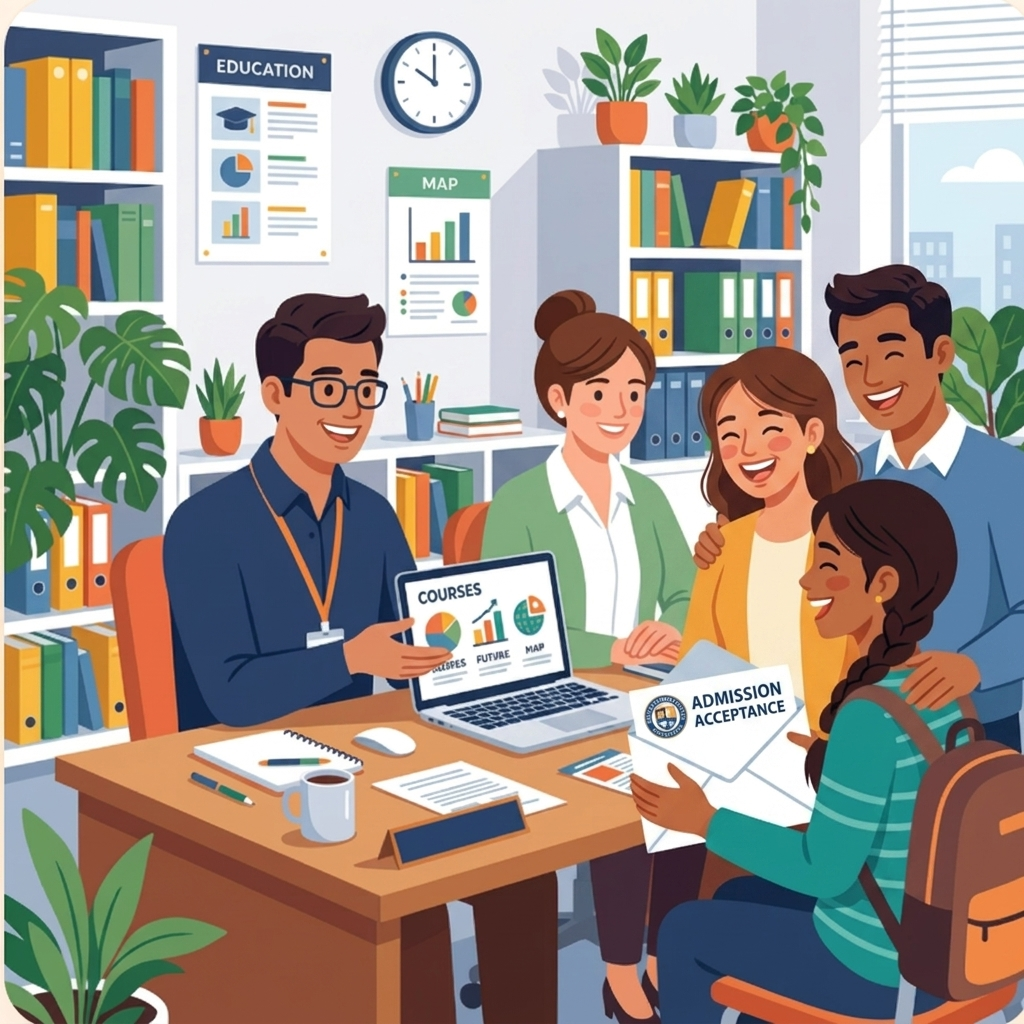
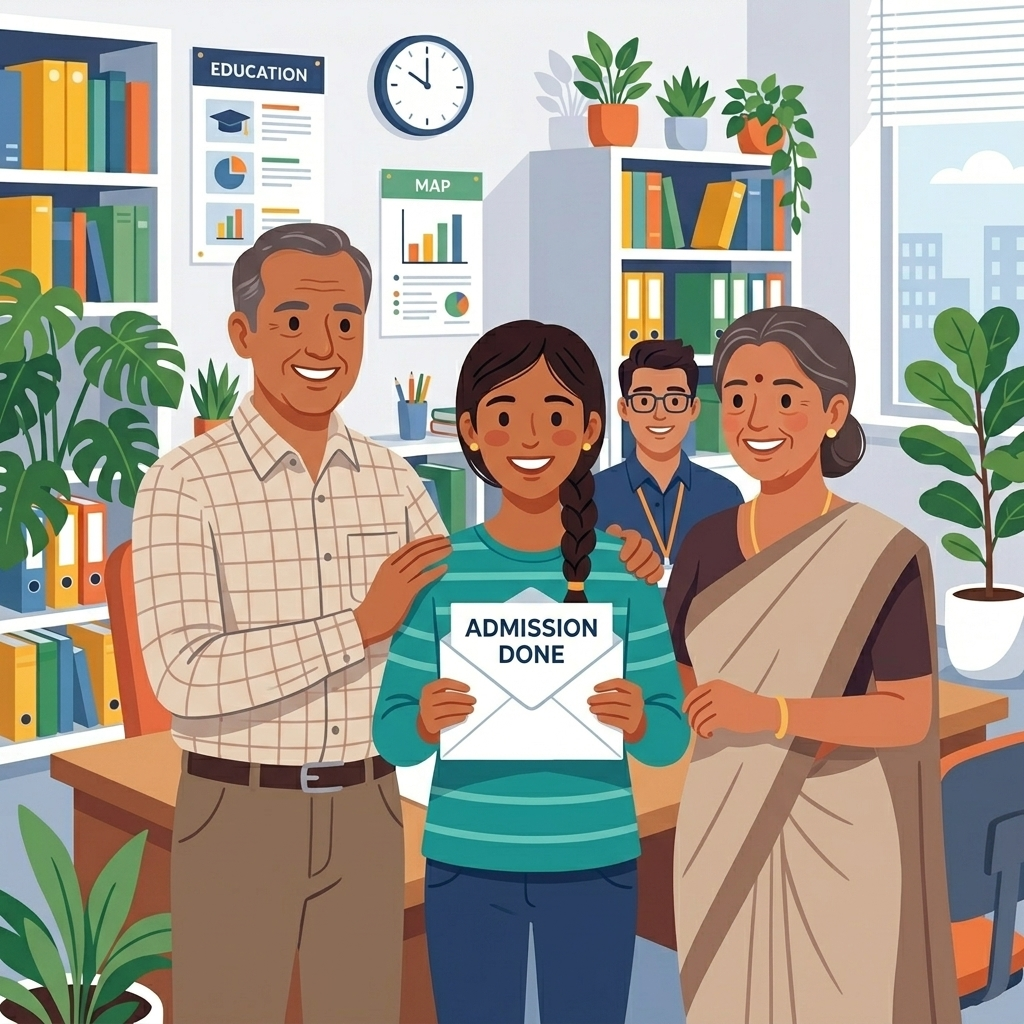
design: generate step 2 (handshake) and step 3 (admission done) counseling illustration cartoons and implement 2s crossfading slideshow loop

diff --git a/src/app/page.tsx b/src/app/page.tsx
@@ -538,6 +538,13 @@ export default function HomePage() {
   ];
   const [activeBiharBg, setActiveBiharBg] = useState(0);
 
+  const counselingSlides = [
+    "/images/counseling_cartoon_1.jpg",
+    "/images/counseling_cartoon_2.jpg",
+    "/images/counseling_cartoon_3.jpg"
+  ];
+  const [activeCounselingSlide, setActiveCounselingSlide] = useState(0);
+
   useEffect(() => {
     const timer = setInterval(() => {
       setActiveSlide((prev) => (prev + 1) % heroSlides.length);
@@ -552,17 +559,10 @@ export default function HomePage() {
     return () => clearInterval(timer);
   }, []);
 
-  const counselingSlides = [
-    "/images/counseling_cartoon_1.jpg",
-    "/images/counseling_cartoon_2.jpg",
-    "/images/counseling_cartoon_3.jpg"
-  ];
-  const [activeCounselingSlide, setActiveCounselingSlide] = useState(0);
-
   useEffect(() => {
     const timer = setInterval(() => {
       setActiveCounselingSlide((prev) => (prev + 1) % counselingSlides.length);
-    }, 3000);
+    }, 2000);
     return () => clearInterval(timer);
   }, []);
 
@@ -2665,16 +2665,14 @@ export default function HomePage() {
             {/* 3D Glow halo behind the card to integrate it into the saffron backdrop */}
             <div className="absolute inset-2 bg-gradient-to-tr from-orange-400/20 to-amber-500/20 rounded-[32px] blur-2xl group-hover/img:scale-105 group-hover/img:blur-3xl transition-all duration-500" />
 
-            {/* Stacking the images for a smooth crossfade effect */}
+            {/* The Image Cards Slideshow */}
             {counselingSlides.map((slide, idx) => (
               <img
                 key={slide}
                 src={slide}
-                alt={`Expert Counseling Guidance ${idx + 1}`}
-                className={`absolute inset-0 w-full h-full object-contain rounded-[24px] border border-orange-200/30 shadow-[0_15px_30px_rgba(244,121,32,0.06),0_10px_15px_-5px_rgba(0,0,0,0.04)] transition-all duration-1000 ease-in-out hover:scale-[1.02] hover:-translate-y-1 ${
-                  idx === activeCounselingSlide 
-                    ? "opacity-100 z-10" 
-                    : "opacity-0 z-0 pointer-events-none"
+                alt="Expert Counseling Guidance"
+                className={`absolute inset-0 w-full h-full object-contain rounded-[24px] border border-orange-200/30 shadow-[0_15px_30px_rgba(244,121,32,0.06),0_10px_15px_-5px_rgba(0,0,0,0.04)] hover:scale-[1.02] hover:-translate-y-1 transition-all duration-500 ease-in-out ${
+                  idx === activeCounselingSlide ? "z-20 opacity-100" : "z-10 opacity-0"
                 }`}
               />
             ))}
